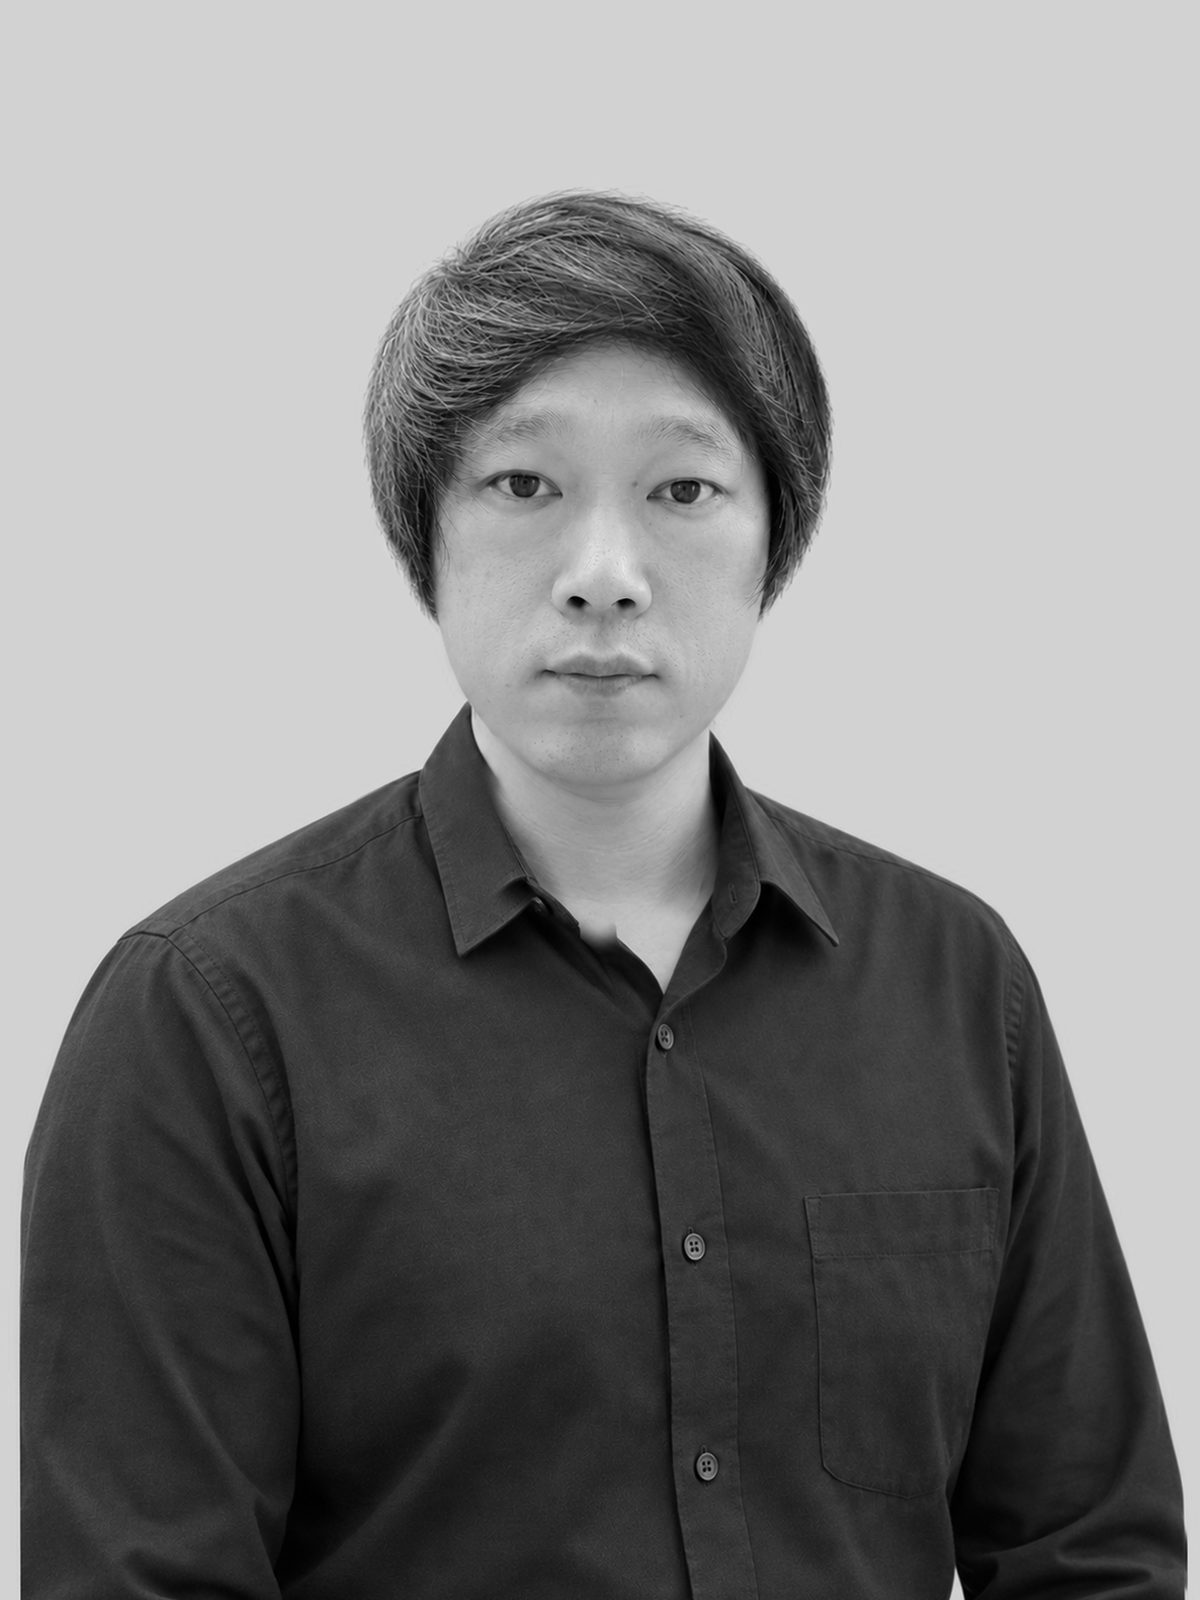
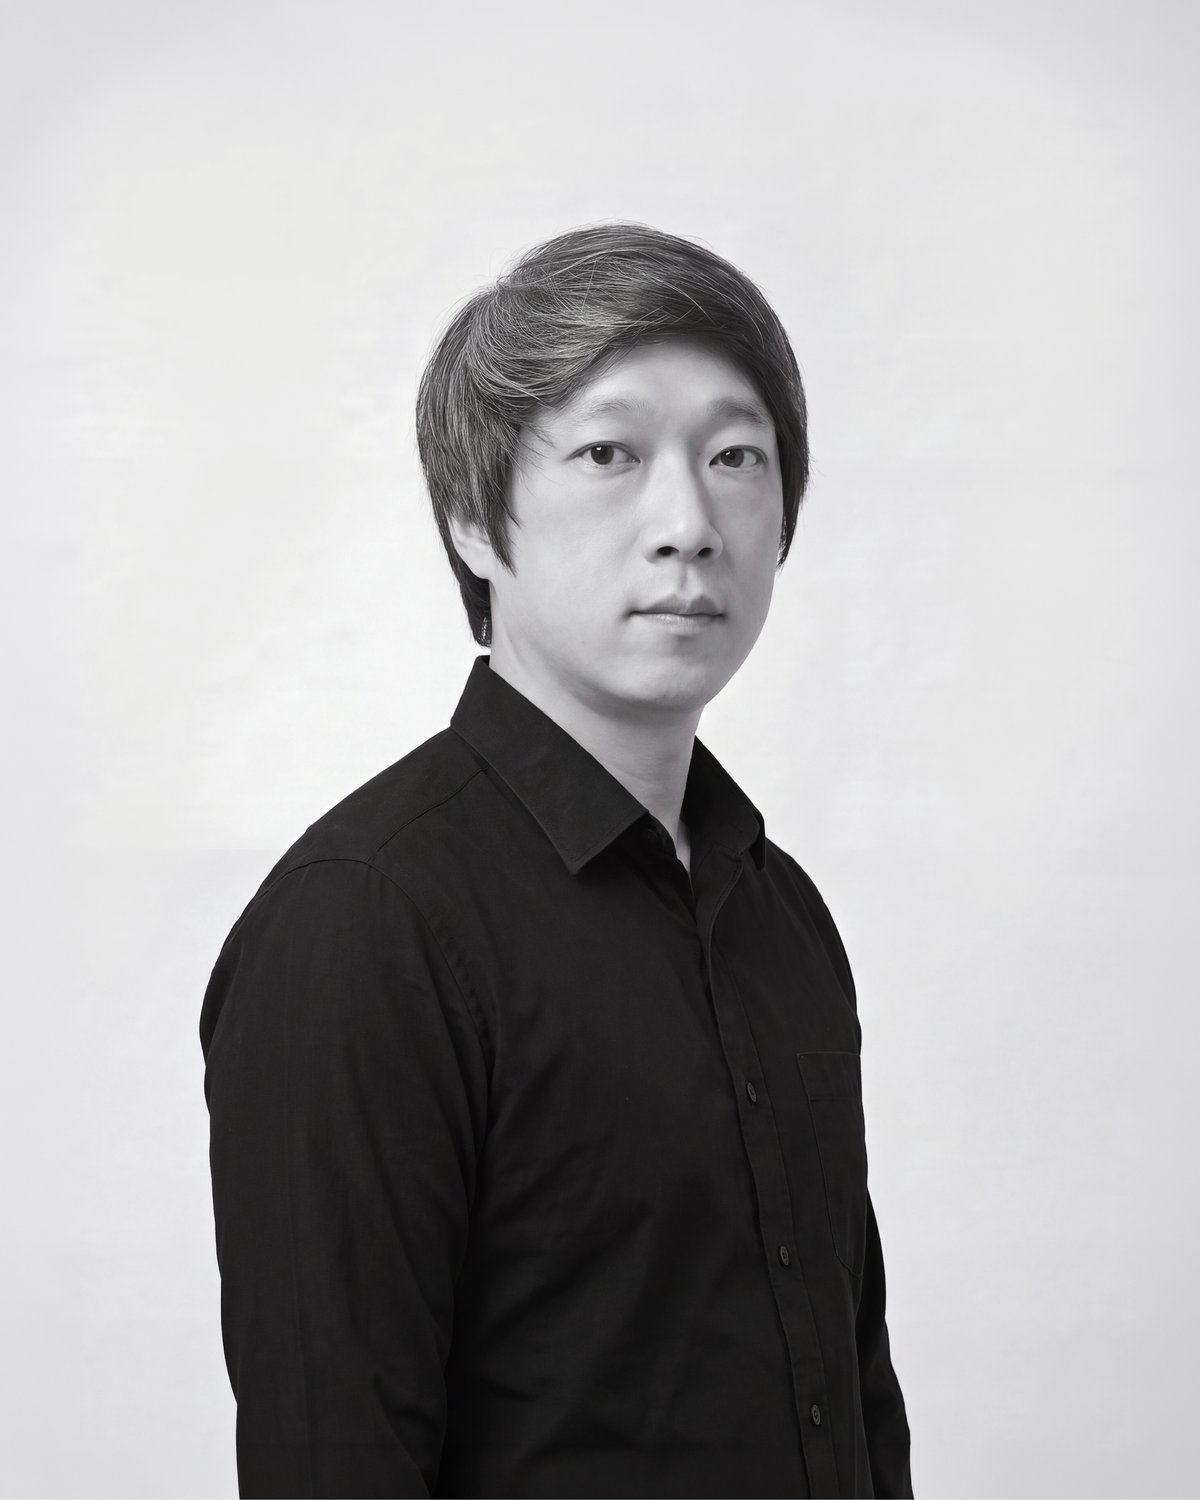
feat : 교수진 이름·직책·학력 스프레드시트 기준으로 수정 및 사진 교체

diff --git a/src/data/faculty.ts b/src/data/faculty.ts
@@ -1,11 +1,12 @@
 // 더미 데이터 — USE_MOCK 모드에서 src/lib/api 가 반환. 백엔드 연결 후엔 참고용.
-// 순서·직함·학력: Figma 메인(6:485) 기준 / 사진: 드라이브 '교수진 사진/정리본' (최수신 교수님은 Figma 원본)
+// 이름·직책·학력·순서: 교수진 정보 스프레드시트 '메인페이지' 시트 기준 (직책별 가나다 순, 학부장 맨 앞)
+// 사진: 드라이브 '교수진 사진_1차 생성본' (최수신 교수님은 사진 준비 중이라 Figma 원본 유지)
 import type { Faculty } from "@/types/faculty";
 import { FACULTY_DETAILS } from "./faculty-detail";
 
 const LIST: Omit<Faculty, "detail">[] = [
   {
-    slug: "lee-joongsup", nameEn: "Joongsup Lee", nameKo: "이중섭", position: "부교수 / 학부장",
+    slug: "lee-joongsup", nameEn: "Joongsup Lee", nameKo: "이중섭", position: "부교수/ 학부장",
     education: "Graphic Design M.F.A., Iowa State Univ., IA, US.",
     image: "/images/faculty/lee-joongsup.jpg",
   },
@@ -15,23 +16,23 @@ const LIST: Omit<Faculty, "detail">[] = [
     image: "/images/faculty/park-chansong.jpg",
   },
   {
-    slug: "lee-eunjong", nameEn: "Eunjong Lee", nameKo: "이은종", position: "교수 / 디자인연구소장",
-    education: "한국과학기술원, 산업디자인, Ph.D. 수료",
+    slug: "lee-eunjong", nameEn: "Eun jong Lee", nameKo: "이은종", position: "교수/ 디자인연구소장",
+    education: "KAIST, Industrial Design, Ph.D. (coursework completed)",
     image: "/images/faculty/lee-eunjong.jpg",
   },
   {
-    slug: "yi-jaesun", nameEn: "Jaesun Yi", nameKo: "이재선", position: "교수",
+    slug: "yi-jaesun", nameEn: "Jae-Sun Yi", nameKo: "이재선", position: "교수",
     education: "Communication Design, M.S., Pratt Institute, NY, US",
     image: "/images/faculty/yi-jaesun.jpg",
   },
   {
-    slug: "choi-inwook", nameEn: "Inwook Choi", nameKo: "최인욱", position: "교수/ HUSS 사업단장",
-    education: "Computer Graphic, M.A., Rochester Ins. of Tech., NY, US.",
+    slug: "choi-inwook", nameEn: "InWook Choi", nameKo: "최인욱", position: "교수/ HUSS미래디자인 사업단 단장",
+    education: "Computer Graphics Design, M.F.A., Rochester Inst. of Tech., NY, US.",
     image: "/images/faculty/choi-inwook.jpg",
   },
   {
     slug: "ju-youngmin", nameEn: "Youngmin Ju", nameKo: "주영민", position: "부교수",
-    education: "홍익대학교 대학원, 산업디자인, M.A.",
+    education: "Hongik University, Industrial Design, M.F.A.",
     image: "/images/faculty/ju-youngmin.jpg",
   },
   {
@@ -40,8 +41,8 @@ const LIST: Omit<Faculty, "detail">[] = [
     image: "/images/faculty/lee-joohyun.jpg",
   },
   {
-    slug: "lee-jingu", nameEn: "Jingu Lee", nameKo: "이진구", position: "명예교수",
-    education: "홍익대학교 대학원, 광고홍보학, Ph.D.",
+    slug: "lee-jingu", nameEn: "Jin Gu Lee", nameKo: "이진구", position: "명예교수",
+    education: "Hongik University, Advertising & Public Relations, Ph.D.",
     image: "/images/faculty/lee-jingu.jpg",
   },
   {
@@ -61,7 +62,7 @@ const LIST: Omit<Faculty, "detail">[] = [
   },
   {
     slug: "choi-sooshin", nameEn: "Sooshin Choi", nameKo: "최수신", position: "겸임교수",
-    education: "홍익대학교 대학원, 산업디자인, M.F.A.",
+    education: "Hongik University, Industrial Design, M.F.A.",
     image: "/images/faculty/choi-sooshin.jpg",
   },
   {
@@ -71,7 +72,7 @@ const LIST: Omit<Faculty, "detail">[] = [
   },
   {
     slug: "shin-wonseok", nameEn: "Shin Wonseok", nameKo: "신원석", position: "객원교수",
-    education: "한동대학교 대학원, 문화미디어디자인 M.E.",
+    education: "Handong Global University, Culture & Media Design, M.E.",
     image: "/images/faculty/shin-wonseok.jpg",
   },
   {
@@ -81,7 +82,7 @@ const LIST: Omit<Faculty, "detail">[] = [
   },
   {
     slug: "park-yena", nameEn: "Park Yena", nameKo: "박예나", position: "강사",
-    education: "파주타이포그라피 더배곳 (PaTI), 시각디자인",
+    education: "Paju Typography Institute (PaTI), Visual Communication Design",
     image: "/images/faculty/park-yena.jpg",
   },
   {
@@ -96,42 +97,42 @@ const LIST: Omit<Faculty, "detail">[] = [
   },
   {
     slug: "lee-youngsuk", nameEn: "Lee Yongseok", nameKo: "이용석", position: "강사",
-    education: "브랜드 전문회사 COVENANT inc., 대표",
+    education: "CEO, COVENANT Inc. (Branding Agency)",
     image: "/images/faculty/lee-youngsuk.jpg",
   },
   {
     slug: "jang-inhee", nameEn: "Jang Inhui", nameKo: "장인희", position: "강사",
-    education: "홍익대학교 대학원, 회화 Ph.D.",
+    education: "Hongik University, Painting, Ph.D.",
     image: "/images/faculty/jang-inhee.jpg",
   },
   {
     slug: "jang-hyunggyu", nameEn: "Jang Hyeonggyu", nameKo: "장형규", position: "강사",
-    education: "한동대학교 대학원, 문화미디어디자인 M.E.",
+    education: "Handong Global University, Culture & Media Design, M.E.",
     image: "/images/faculty/jang-hyunggyu.jpg",
   },
   {
     slug: "jung-kyungil", nameEn: "Jeong Gyeongil", nameKo: "정경일", position: "강사",
-    education: "홍익대학교 대학원, 서비스디자인 M.F.A.",
+    education: "Hongik University, Service Design, M.F.A.",
     image: "/images/faculty/jung-kyungil.jpg",
   },
   {
     slug: "choi-changu", nameEn: "Choi Changu", nameKo: "최찬구", position: "강사",
-    education: "미디어영상 디자인, UNGSoft, 대표",
+    education: "CEO, UNGSoft (Media & Video Design)",
     image: "/images/faculty/choi-changu.jpg",
   },
   {
     slug: "hong-seungpyo", nameEn: "Hong Seungpyo", nameKo: "홍승표", position: "강사",
-    education: "계명대학교 디자인대학원. 사진디자인 M.F.A.",
+    education: "Keimyung University, Photographic Design, M.F.A.",
     image: "/images/faculty/hong-seungpyo.jpg",
   },
   {
     slug: "hwang-hye", nameEn: "Hwang Hye", nameKo: "황혜", position: "강사",
-    education: "홍익대학교 대학원, 디자인학 박사과정",
+    education: "Hongik University, Design, Ph.D. program (in progress)",
     image: "/images/faculty/hwang-hye.jpg",
   },
   {
     slug: "pyeon-yunsang", nameEn: "Yunsang Pyeon", nameKo: "편윤생",
-    education: "학사 조교",
+    education: "학사조교",
     image: "/images/faculty/pyeon-yunsang.jpg",
   },
 ];
